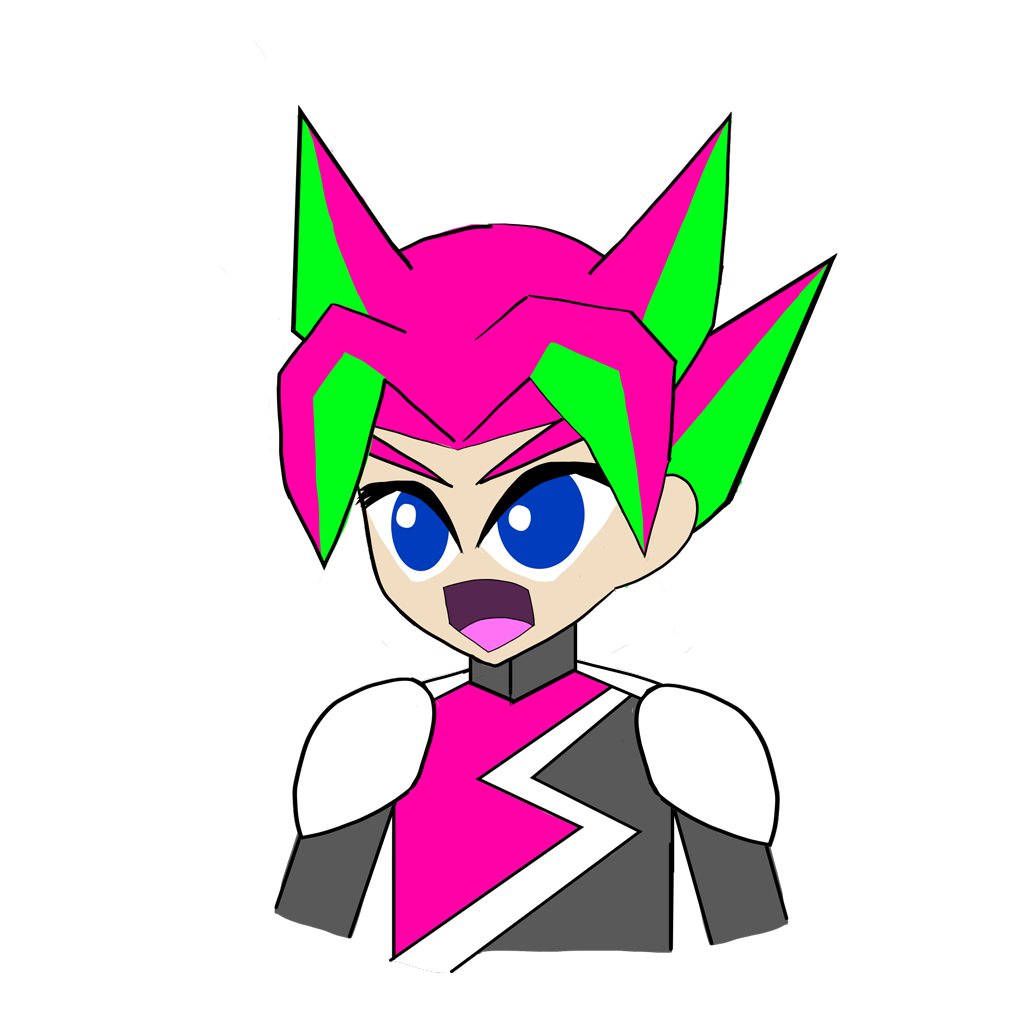
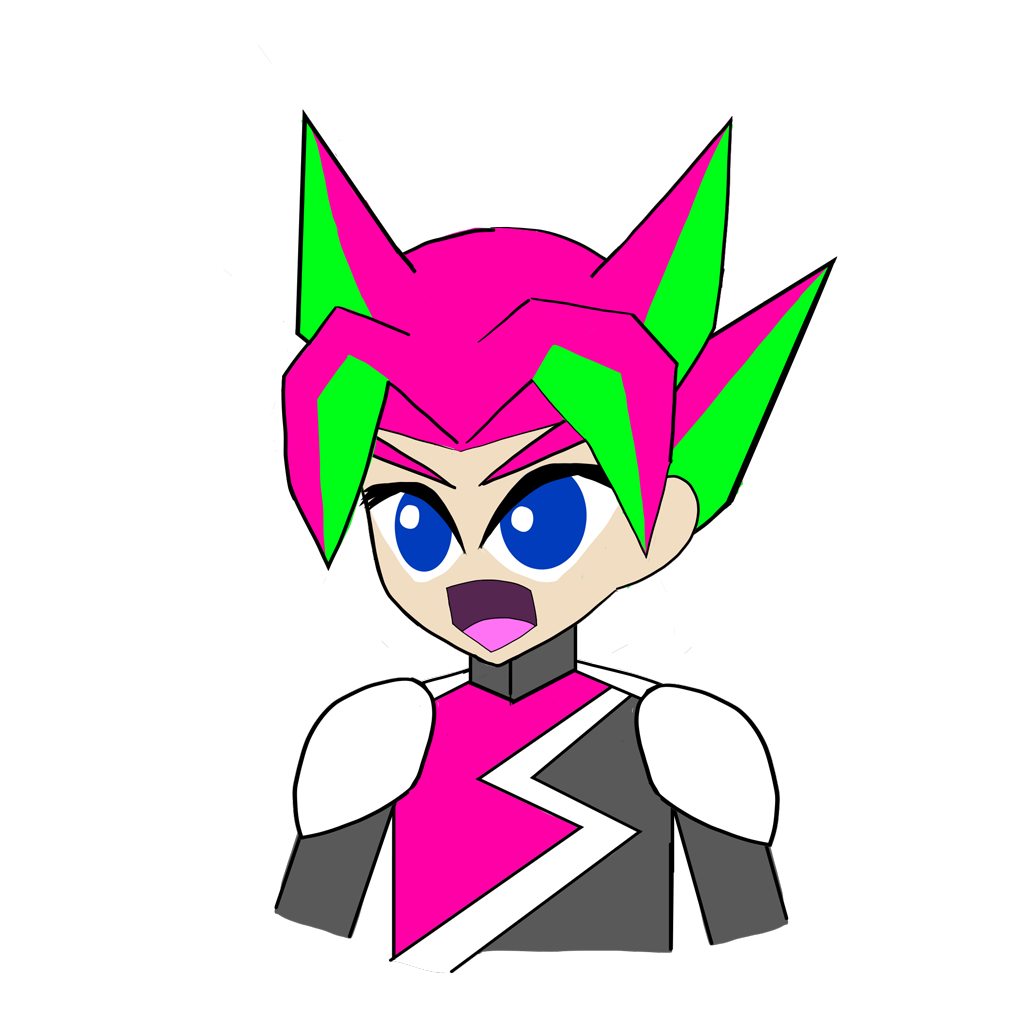
ライトカットインの大きさを調整した

diff --git a/src/js/game-object/cut-in/raito/view/player-raito-view.js b/src/js/game-object/cut-in/raito/view/player-raito-view.js
@@ -13,7 +13,7 @@ import {HUD_CUT_IN_ZNIDEX} from "../../../../zindex/hud-zindex";
 /**
  * メッシュの大きさ
  */
-export const MESH_SIZE = 550;
+export const MESH_SIZE = 480;
 
 /**
  * アニメーション数
@@ -60,7 +60,7 @@ export class PlayerRaitoView implements RaitoView {
     this._mesh.getObject3D().scale.set(scale, scale, scale);
     this._mesh.getObject3D().position.set(
       model.tracking.x,
-      model.tracking.y,
+      model.tracking.y - 20 * scale,
       HUD_CUT_IN_ZNIDEX
     );
     this._mesh.setOpacity(model.opacity);
